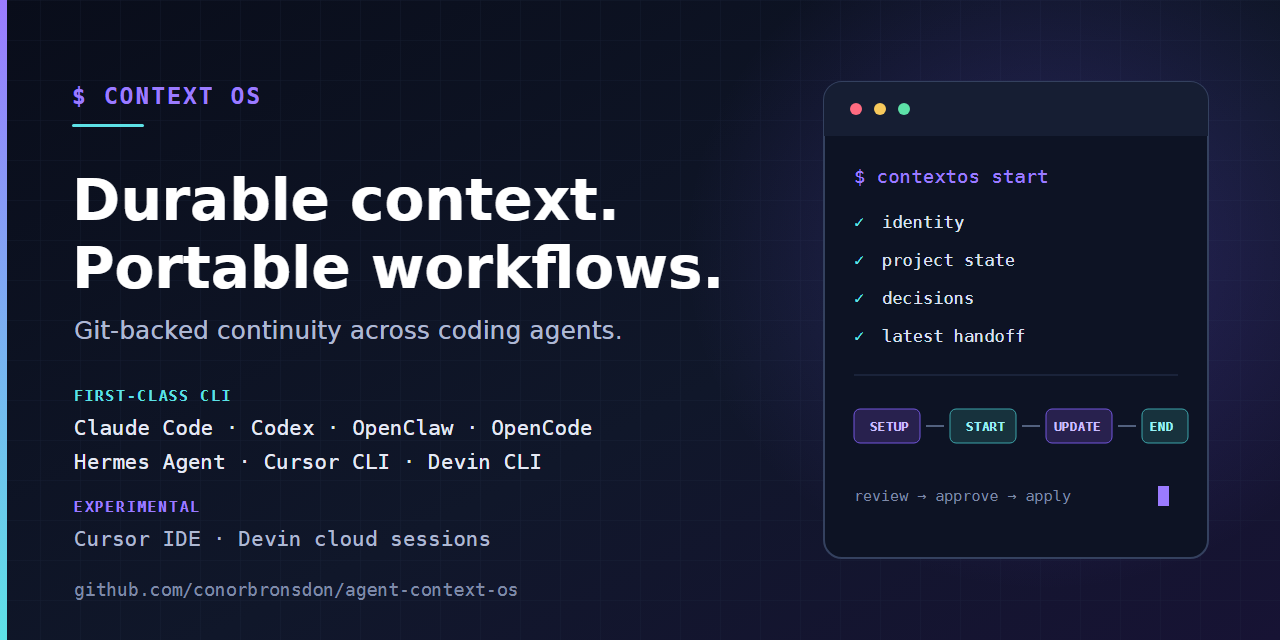
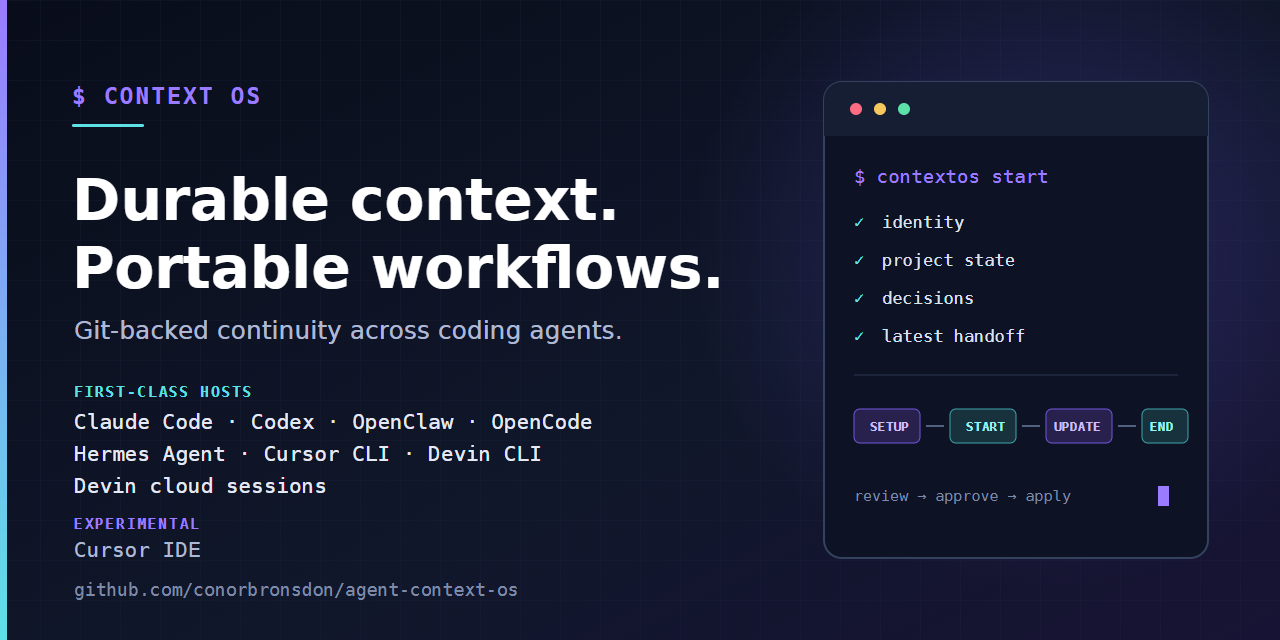
Prepare v1.2.0 for Devin cloud and native Windows support

Changed region(s): [[0.0625, 0.5938, 0.4688, 0.875], [0.1875, 0.8125, 0.375, 0.875]]

diff --git a/tests/test_publish_release.py b/tests/test_publish_release.py
@@ -427,7 +427,7 @@ class PublishReleaseTest(unittest.TestCase):
     def test_workflow_artifact_name_binds_run_and_attempt_without_overwrite(self) -> None:
         source = (ROOT / ".github/workflows/release.yml").read_text(encoding="utf-8")
         qualified = (
-            "v1.1.1-candidate-${{ inputs.commit }}-"
+            "v1.2.0-candidate-${{ inputs.commit }}-"
             "${{ github.run_id }}-${{ github.run_attempt }}"
         )
         self.assertGreaterEqual(source.count(qualified), 5)

diff --git a/contextos/workspace_schema.py b/contextos/workspace_schema.py
@@ -15,7 +15,7 @@ LEGACY_WORKSPACE_SCHEMA_VERSION = 1
 WORKSPACE_SCHEMA_VERSION = 2
 WORKSPACE_MODE = "full-template"
 WORKSPACE_PROFILES = {"full-template", "selected"}
-DEFAULT_TEMPLATE_VERSION = "1.1.1"
+DEFAULT_TEMPLATE_VERSION = "1.2.0"
 DEFAULT_TEMPLATE_SOURCE = "agent-context-os-template"
 DEFAULT_PATHS = {
     "state_dir": "state",

diff --git a/contextos/__init__.py b/contextos/__init__.py
@@ -1,3 +1,3 @@
 """Deterministic lifecycle kernel for Context OS."""
 
-__version__ = "1.1.1"
+__version__ = "1.2.0"

diff --git a/README.md b/README.md
@@ -55,17 +55,17 @@ Personal and business context often belongs in a private repository. Create an e
 
 ### Start from a published release
 
-Source version 1.1.1 is a candidate until the immutable release is published;
-[v1.0.0](https://github.com/conorbronsdon/agent-context-os/releases/tag/v1.0.0)
-is the latest published release until then.
+Source version 1.2.0 is a candidate until its immutable release is published.
+Until then, [v1.1.1](https://github.com/conorbronsdon/agent-context-os/releases/tag/v1.1.1)
+is the latest published release.
 
-For a version-pinned workspace, open [v1.1.1](https://github.com/conorbronsdon/agent-context-os/releases/tag/v1.1.1)
+For a version-pinned workspace, open [v1.2.0](https://github.com/conorbronsdon/agent-context-os/releases/tag/v1.2.0)
 and download all five attached assets: the template `.tar`, bundle lock,
 provenance, `OFFLINE-VERIFY.md`, and `SHA256SUMS`. Follow that release's
-`agent-context-os-template-v1.1.1.OFFLINE-VERIFY.md` to verify the assets before
+`agent-context-os-template-v1.2.0.OFFLINE-VERIFY.md` to verify the assets before
 extracting and running setup. GitHub's generated source ZIP and tar.gz are
 repository snapshots; the attached template tar is the canonical workspace.
-Use the [v1.1.1 release notes](docs/releases/v1.1.1.md) for what that version
+Use the [v1.2.0 release notes](docs/releases/v1.2.0.md) for what that version
 ships. Changes and support promotions described on a development branch may
 require a later release.
 
@@ -74,9 +74,8 @@ before running setup (`git init`). This gives its hooks and Git evidence an
 independent boundary. The [first reviewed handoff](docs/first-handoff.md) covers
 release verification and a local synthetic exercise.
 
-Version 1.1.1 adds first-class Devin CLI support. If the 1.1.1 release is not
-published yet, use v1.0.0 or the source setup path below; do not treat a
-candidate branch as published artifact qualification.
+Version 1.2.0 adds first-class Devin cloud sessions and native Windows Devin CLI
+support. If it is not published yet, use v1.1.1 or the source setup path below.
 
 ### Start from source
 
@@ -351,7 +350,7 @@ behavior of an installed agent version or an external service.
 | See every command and portable skill | [Commands and skills](docs/commands-and-skills.md) |
 | Understand component ownership and the composition/materialization substrate | [Component model](docs/component-model.md) |
 | Verify an offline bundle or inspect a structural plan | [Bundle locks and plans](docs/bundle-locks.md) |
-| Read release scope and evidence limits | [v1.1.1 release notes](docs/releases/v1.1.1.md); released [v1.0.0](docs/releases/v1.0.0.md), [v0.15.0](docs/releases/v0.15.0.md), [v0.14.0](docs/releases/v0.14.0.md), [v0.13.1](docs/releases/v0.13.1.md), and [v0.12.0](docs/releases/v0.12.0.md) |
+| Read release scope and evidence limits | [v1.2.0 release notes](docs/releases/v1.2.0.md); released [v1.1.1](docs/releases/v1.1.1.md), [v1.0.0](docs/releases/v1.0.0.md), [v0.15.0](docs/releases/v0.15.0.md), [v0.14.0](docs/releases/v0.14.0.md), [v0.13.1](docs/releases/v0.13.1.md), and [v0.12.0](docs/releases/v0.12.0.md) |
 | Understand KernelRoot, ContextRoot, WorkingRoot, and the v0.12 compatibility boundary | [Root contract](docs/root-contract.md) |
 | Choose an optional add-on | [Integration chooser](docs/integrations-guide.md) and [catalog](references/integrations.md) |
 | Understand product language and boundaries | [Positioning](docs/positioning.md) |

diff --git a/docs/releases/v1.2.0.md b/docs/releases/v1.2.0.md
@@ -1,0 +1,59 @@
+# Context OS v1.2.0
+
+Context OS 1.2.0 adds first-class Devin cloud sessions and native Windows Devin
+CLI support. A project can keep its identity, state and reviewed handoffs in Git
+when work moves between supported agents. The [1.x compatibility contract](https://github.com/conorbronsdon/agent-context-os/blob/v1.2.0/docs/compatibility-contract.md)
+is unchanged.
+
+## Devin cloud sessions
+
+Live runs on snapshot build `sbj-f04a9b4dd96a43ff806501a2bedd34bf` passed
+instruction, skill and lifecycle controls. Setup, update and end each produce a
+proposal; Devin applies it after receiving the operator's exact-digest approval.
+The harness checks pushed commits and permitted paths, compares each applied
+tree and receipt with an independent kernel replay, and checks receipt timing.
+A fresh session recovers the saved next action from a handoff branch without
+pending proposal artifacts.
+
+Cloud sessions require a repository blueprint. The [Devin guide](https://github.com/conorbronsdon/agent-context-os/blob/v1.2.0/adapters/devin/README.md)
+and [cloud evidence](https://github.com/conorbronsdon/agent-context-os/tree/v1.2.0/docs/evidence/devin-cloud-2026-10-08)
+record the tested boundaries. Devin Review remains an instruction-compatible
+review surface, separate from lifecycle hosts.
+
+## Native Windows Devin CLI
+
+CLI `3000.11.3` is covered on Windows 11 from PowerShell, alongside Linux
+(WSL2). Native Windows host, hook and lifecycle controls passed, including
+setup, start, update, end, wrong-digest and stale-proposal rejection, and a
+fresh-session handoff. In CLI lifecycle runs, the operator applies the reviewed
+proposal outside Devin; these runs do not establish model enforcement of
+exact-digest approval.
+
+Windows Devin reads the real OS profile despite `HOME` overrides. The opt-in
+harness never writes profile fixtures. It checks locally hashed lines of the
+real global Claude instructions to establish that they stayed out of the
+recorded sessions. User-level skill metadata remains visible. macOS has no live
+Devin CLI evidence.
+
+The shipped import guard disables foreign agent configuration. Hooks and
+portable skills reuse the active Bash to avoid selecting the Windows WSL
+launcher from PowerShell's path. The setup advisory directs agents to
+`$context-setup`; the interactive terminal installer is a separate workflow.
+See the [Windows evidence](https://github.com/conorbronsdon/agent-context-os/tree/v1.2.0/docs/evidence/devin-cli-windows-2026-10-08).
+
+## Release assets and upgrades
+
+Download all five attached assets from the immutable release. Begin with
+`agent-context-os-template-v1.2.0.OFFLINE-VERIFY.md`. The attached template tar
+is the canonical workspace; GitHub's generated source archives are repository
+snapshots.
+
+Release qualification exercises published 0.14, 0.15 and 1.0 upgrades,
+schema-v1 and legacy migrations, selected profiles, personalized file conflicts,
+rollback, lock exclusion, journal recovery, post-commit doctor failure and fresh
+setup on Linux and Windows. These synthetic tests are separate from native
+adapter evidence. Windows extraction cannot verify POSIX executable bits.
+
+Source version 1.2.0 remains a candidate until its immutable release is
+published. Until then, use the published 1.1.1 assets or the source setup path.
+Cursor IDE remains experimental.

diff --git a/docs/release-process.md b/docs/release-process.md
@@ -36,7 +36,8 @@ Only dispatch `.github/workflows/release.yml` from `main`, with the exact
 reviewed 40-hex commit. Before dispatch:
 
 1. merge the release-preparation PR after canonical validation, hosted Linux and
-   Windows validation, and exact-SHA Claude plus free-Hermes reviews;
+   Windows validation, and exact-SHA independent primary and free-Hermes reviews
+   (use an eligible independent fallback when Claude cannot complete);
 2. confirm the version constants, example workspace, and dated changelog agree;
 3. from a locally authenticated GitHub CLI session whose token can read
    repository administration settings, require
@@ -48,7 +49,7 @@ The administration-read policy endpoint is intentionally not called with an
 Actions `GITHUB_TOKEN`: GitHub does not grant that token repository
 administration permission. Do not put a personal admin token in workflow inputs,
 logs, repository secrets, or artifacts. The workflow uses the checked-in
-[v1.1.1 release notes](releases/v1.1.1.md) as the draft description.
+[v1.2.0 release notes](releases/v1.2.0.md) as the draft description.
 
 The workflow then fails closed through these gates:
 
@@ -97,8 +98,8 @@ python scripts/publish-release.py \
   --run-id RUN_ID \
   --release-id RELEASE_ID \
   --commit REVIEWED_40_HEX_COMMIT \
-  --version 1.1.1 \
-  --tag v1.1.1
+  --version 1.2.0 \
+  --tag v1.2.0
 ```
 
 The publisher uses the existing locally authenticated `gh` session. Before the
@@ -111,7 +112,7 @@ irreversible numeric-release-ID PATCH, it requires all of the following:
   numeric artifact ID, checked against its server-reported ZIP size and digest,
   and re-read by ID before publication;
 - local `HEAD` and the target repository's GitHub API `main` and
-  `refs/tags/v1.1.1` equal the reviewed commit (the local `origin` is not an
+  `refs/tags/v1.2.0` equal the reviewed commit (the local `origin` is not an
   independent authority);
 - the operator-selected numeric release is still a draft, is not a prerelease,
   and has the exact
@@ -157,8 +158,8 @@ python scripts/publish-release.py \
   --run-id RUN_ID \
   --release-id RELEASE_ID \
   --commit REVIEWED_40_HEX_COMMIT \
-  --version 1.1.1 \
-  --tag v1.1.1 \
+  --version 1.2.0 \
+  --tag v1.2.0 \
   --verify-published
 ```
 
@@ -167,7 +168,7 @@ identity and attestation cross-check and never selects the PATCH target. This
 mode requires the numeric release to be published and immutable, repeats
 the run, attempt, artifact, repository-ref, metadata, byte, and attestation
 checks, and never issues a publication PATCH. Any post-publication integrity
-mismatch retires v1.1.1 rather than authorizing mutation.
+mismatch retires v1.2.0 rather than authorizing mutation.
 
 Consumers should follow the version-specific offline instructions and obtain
 the expected digest through a channel they trust. Co-located checksums prove

diff --git a/CHANGELOG.md b/CHANGELOG.md
@@ -2,6 +2,8 @@
 
 ## [Unreleased]
 
+## [1.2.0] — 2026-10-08 — Devin cloud and native Windows lifecycle support
+
 ### Added
 - Devin CLI native Windows 11 support, scoped to CLI `3000.11.3` launched from
   PowerShell (#71). Opt-in host, hook and lifecycle runs passed; setup, start,
